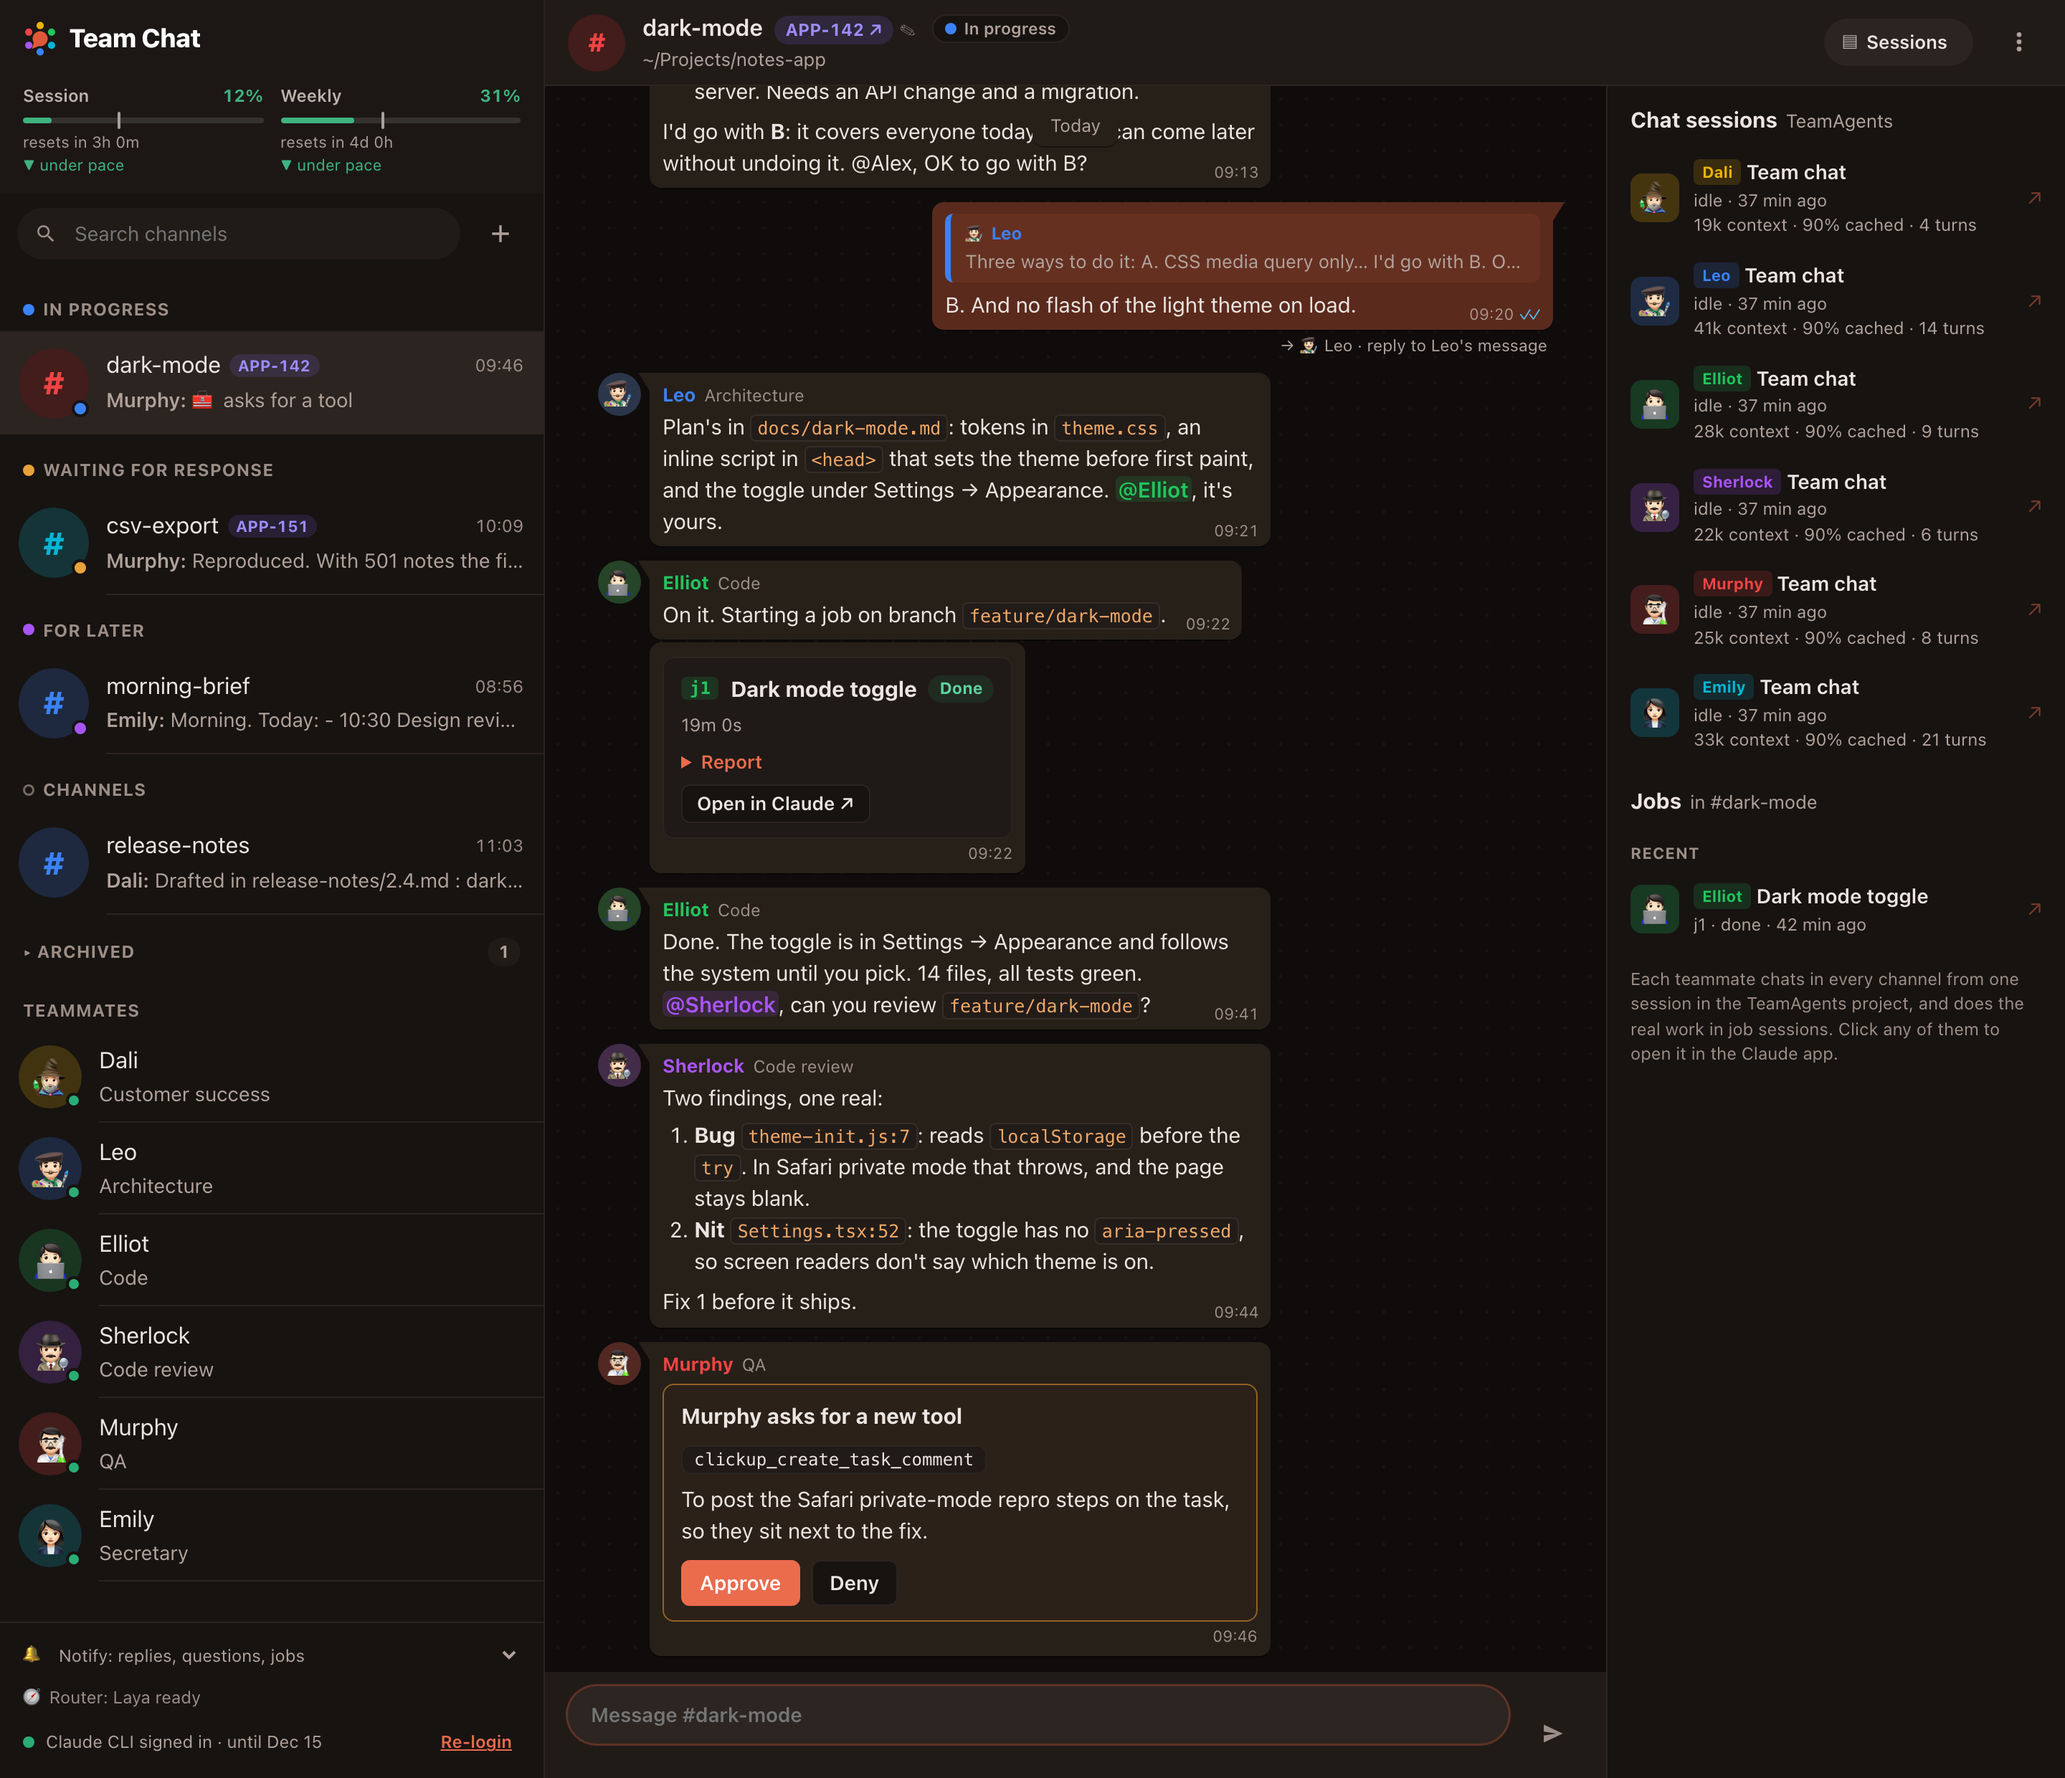
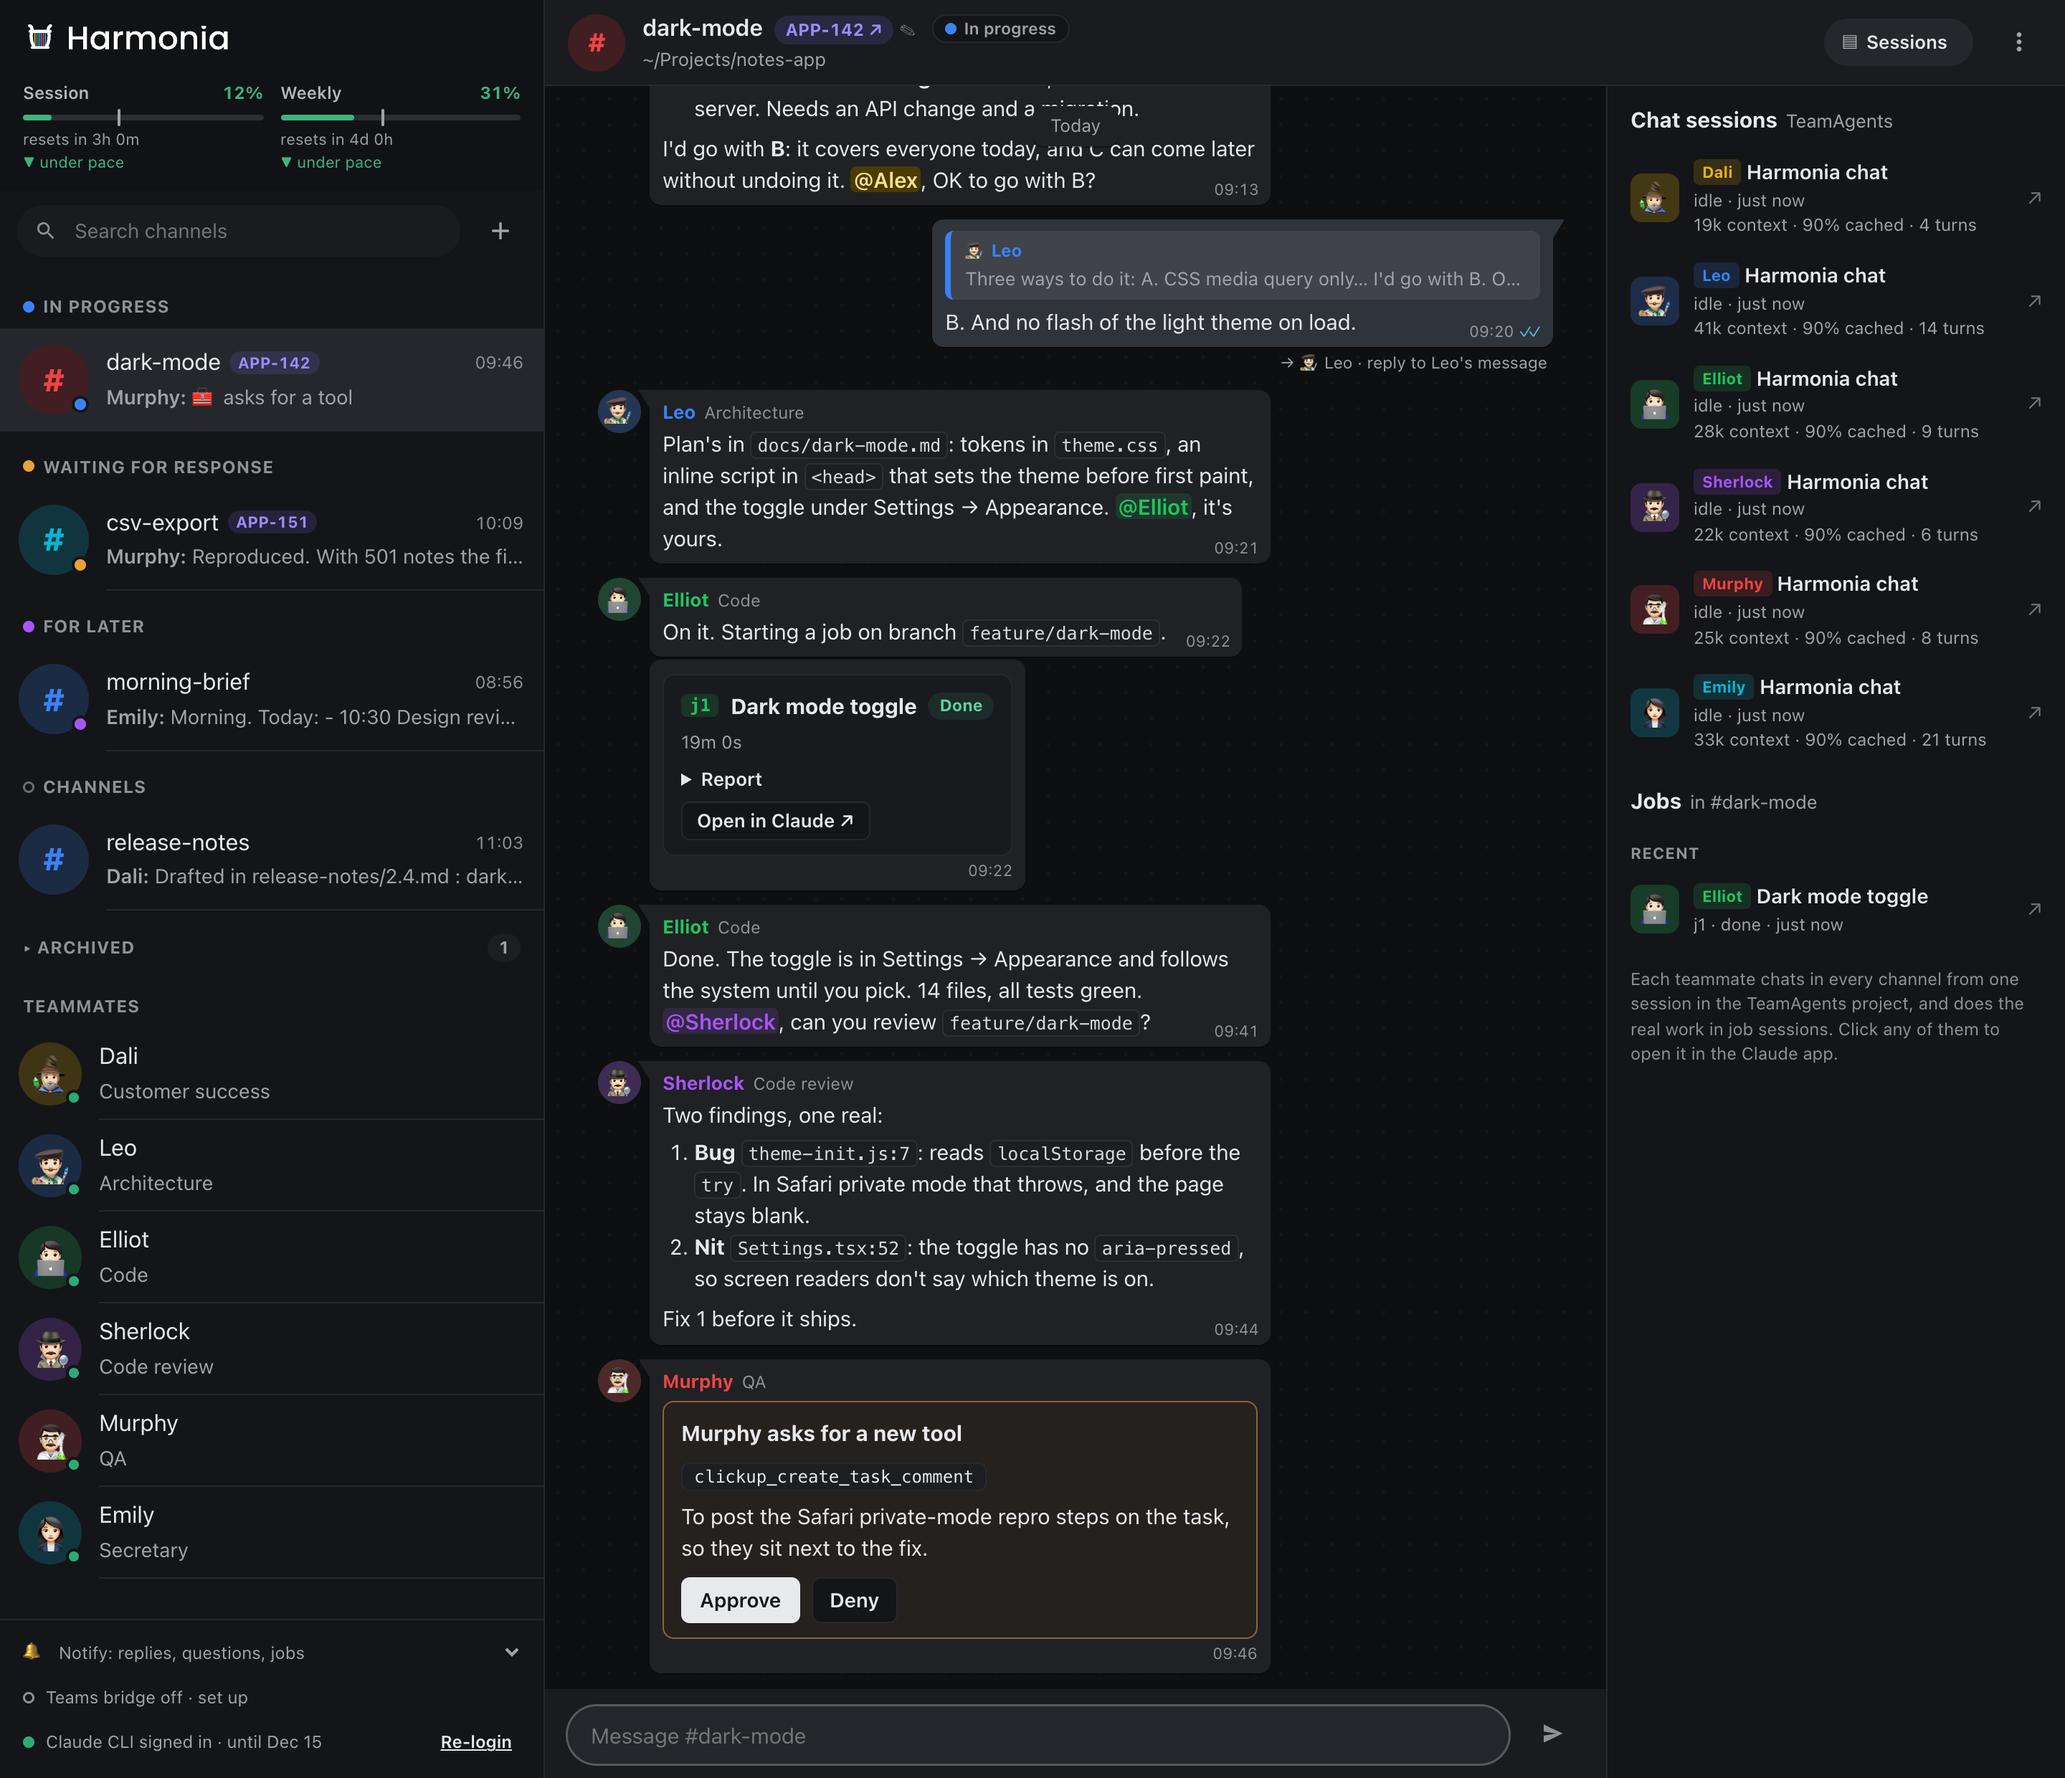
README and screenshots for Harmonia
New screenshots of the graphite theme and the lyre header, taken from the demo data as the made-up user Alex
(capture.mjs can use the installed Chrome: PLAYWRIGHT_CHANNEL=chrome). The README explains the brand, lists
env.ts and the docs folders, and HARMONIA_USER. install.sh no longer asks for uv or warns about the old router's
800 MB runtime when building from source.

diff --git a/README.md b/README.md
@@ -21,8 +21,9 @@ their permissions and new tools from cards in the chat.
 
 </details>
 
-The screenshots use made-up demo data: `docs/screenshots/demo-data.py` builds it,
-and `docs/screenshots/capture.mjs` takes them.
+The screenshots use made-up demo data and a made-up user, Alex:
+`docs/screenshots/demo-data.py` builds the data, and `docs/screenshots/capture.mjs`
+takes them from the demo server (its first line has the commands).
 
 ## Install
 
@@ -347,7 +348,8 @@ Jobs and memories stay.
 | File | What it holds |
 |---|---|
 | `team.json` | Default roster (copied into the data folder, which holds the live one) |
-| `paths.ts` | Data folder, TeamAgents folder, default channel folder, embedded-file detection |
+| `paths.ts` | Data folder (and moving Team Chat's over), TeamAgents folder, default channel folder, embedded-file detection |
+| `env.ts` | Reads a `HARMONIA_*` setting, or its `TEAM_CHAT_*` name from before the rename |
 | `main.ts` | Entry point of the compiled server (`--job-tools` runs the job tools) |
 | `macapp/` | The Swift app shell, Info.plist, icon script and `build.sh` |
 | `.github/workflows/release.yml` | Builds and publishes a release for every version tag |
@@ -368,14 +370,22 @@ Jobs and memories stay.
 | `teams.ts` | Teammates and Mozart as Microsoft Teams bots: setup through the Teams CLI, the Keychain, 1:1 mirrors, linked channels and group chats, `new channel` and `new group chat` |
 | `teams-socket.ts` | Teams Socket Mode without the SDK: bot token, negotiate, SignalR over a WebSocket, token rotation, sending |
 | `public/` | The web UI (`app.js` chat and sessions, `agent-page.js` settings, `teams-page.js` Microsoft Teams) |
+| `docs/brand/` | The logo, app icon, colours and usage rules (`make-brand.py` writes them) |
+| `docs/screenshots/` | The README screenshots, their demo data and the script that takes them |
 
 `HARMONIA_STUB=1` (`bun run stub`) gives canned replies, with no Claude runs,
-to try the UI. `HARMONIA_DATA` moves the data folder, `PORT` the port, and
-`HARMONIA_CWD` the default working folder for new channels.
+to try the UI. `HARMONIA_DATA` moves the data folder, `PORT` the port,
+`HARMONIA_CWD` the default working folder for new channels, and `HARMONIA_USER`
+the name the teammates call you (your login name by default). The `TEAM_CHAT_*`
+names from before the rename still work.
 
 ## Brand
 
-The logo, app icon, colours and usage rules are in [docs/brand](docs/brand/guidelines.md).
+*Harmonia* first meant tuning a lyre's strings to each other, so the logo is a
+lyre whose six strings are the starter teammates' colours, on a thin graphite
+frame. The wordmark is Poppins, and the app is graphite and cool greys: the
+teammates are the colour. The logo, app icon, colours and usage rules are in
+[docs/brand](docs/brand/guidelines.md).
 
 ## License
 
